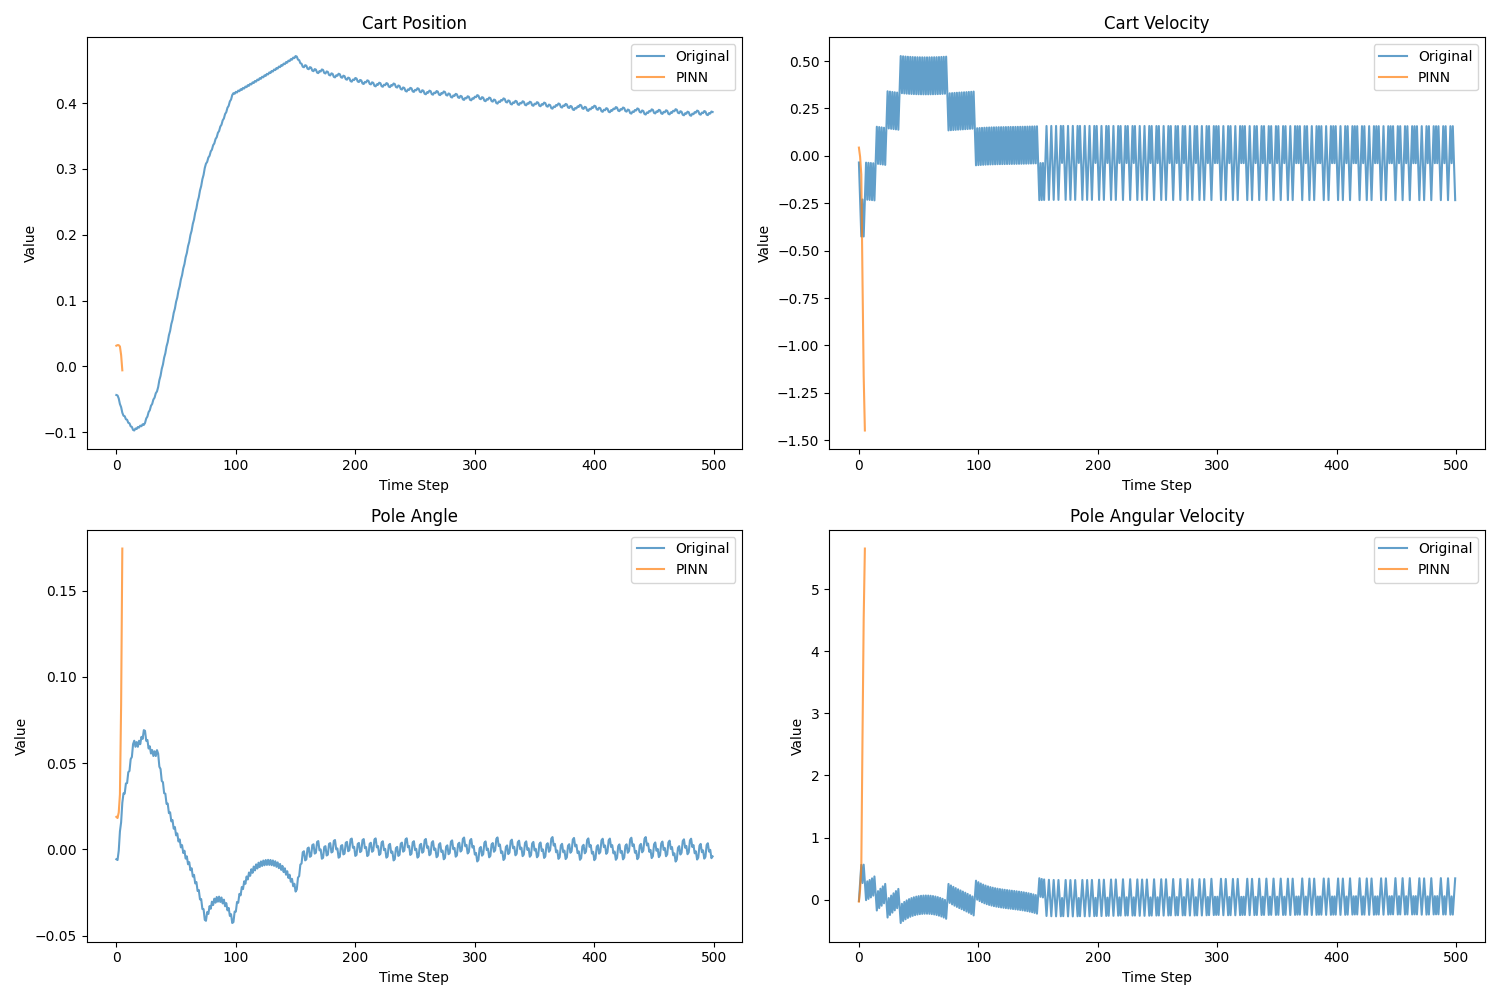
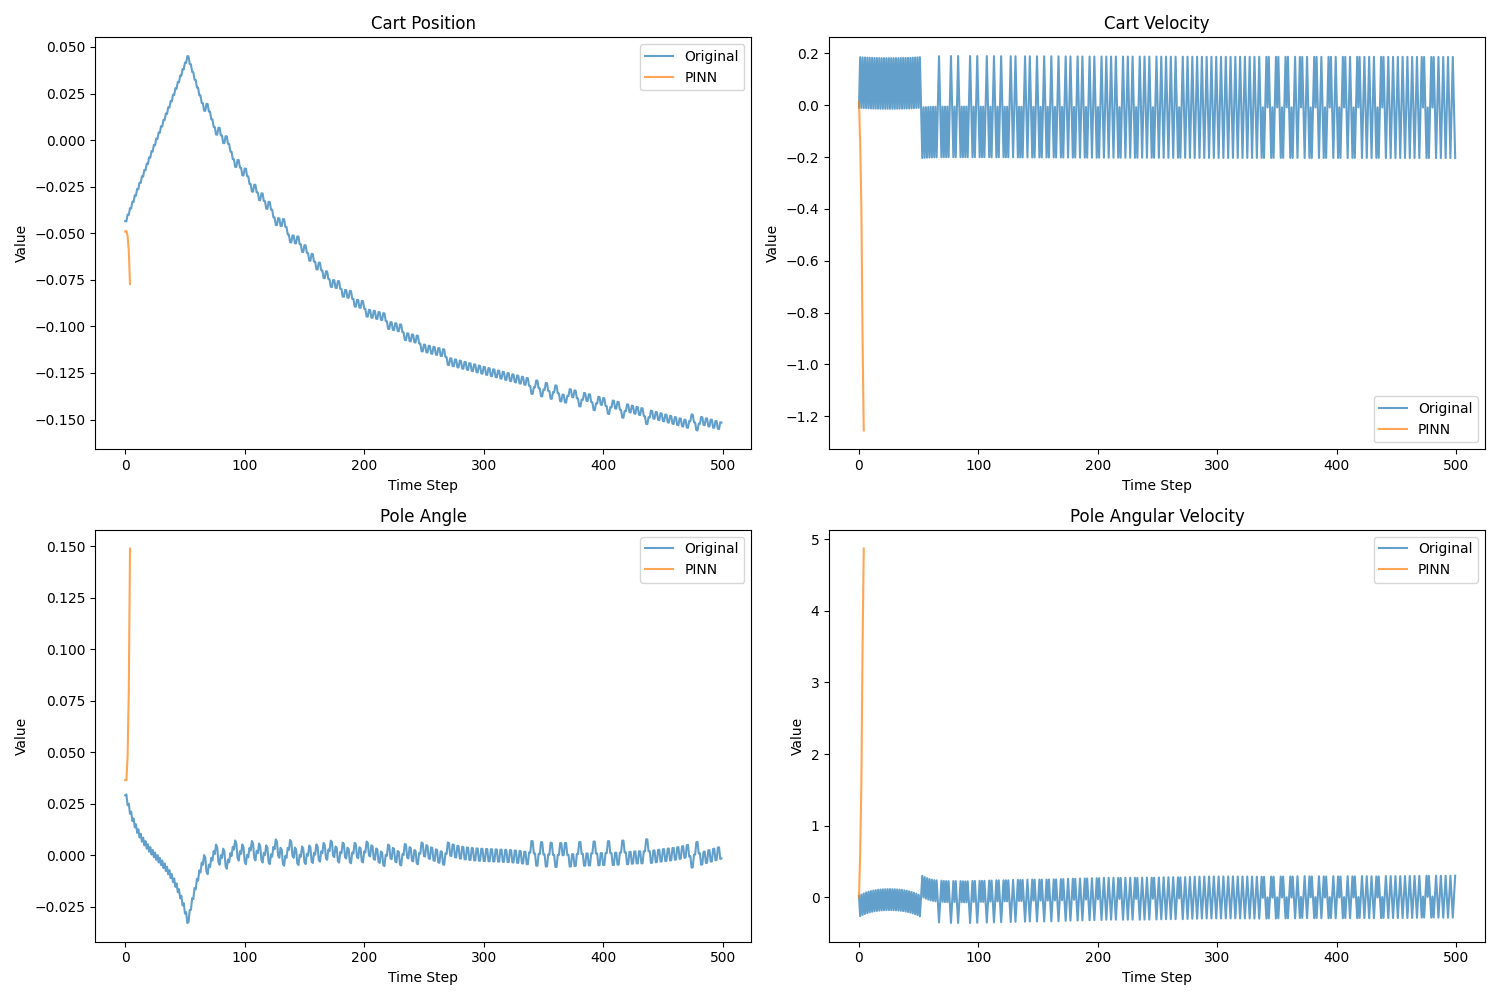
feat: add predicted forces to collect_trajectories

diff --git a/integration/compare_environments.py b/integration/compare_environments.py
@@ -38,7 +38,7 @@ def collect_trajectory(env, model, max_steps=500, visualize=False):
     tuple: Numpy arrays of states, actions, and rewards.
     """
     obs, _ = env.reset()
-    states, actions, rewards = [], [], []
+    states, actions, rewards, predicted_forces = [], [], [], []
 
     animation = create_animation(obs, max_steps, visualize)
 
@@ -46,15 +46,18 @@ def collect_trajectory(env, model, max_steps=500, visualize=False):
         action, _ = model.predict(obs, deterministic=True)
         states.append(obs)
         actions.append(action)
-        obs, reward, terminated, truncated, _ = env.step(action)
+        obs, reward, terminated, truncated, info = env.step(action)
         rewards.append(reward)
+
+        if "predicted_force" in info:
+            predicted_forces.append(info["predicted_force"])
 
         plot_trajectory(states, actions, rewards, visualize)
 
         if terminated or truncated:
             break
 
-    return np.array(states), np.array(actions), np.array(rewards)
+    return (np.array(states), np.array(actions), np.array(rewards), np.array(predicted_forces) if predicted_forces else None)
 
 def compare_environments(pinn_model, params, predict_friction=False, num_episodes=100, max_steps=500, visualize=False):
     """
@@ -94,8 +97,8 @@ def compare_environments(pinn_model, params, predict_friction=False, num_episode
     print(f"Mean reward: {pinn_mean:.2f} +/- {pinn_std:.2f}")
 
     # Collect trajectories
-    original_states, original_actions, original_rewards = collect_trajectory(original_env, ppo_model, max_steps, visualize)
-    pinn_states, pinn_actions, pinn_rewards = collect_trajectory(pinn_env, ppo_model, max_steps, visualize)
+    original_states, original_actions, original_rewards, _ = collect_trajectory(original_env, ppo_model, max_steps, visualize)
+    pinn_states, pinn_actions, pinn_rewards, pinn_forces = collect_trajectory(pinn_env, ppo_model, max_steps, visualize)
 
     # Plot state comparisons
     fig, axs = plt.subplots(2, 2, figsize=(15, 10))
@@ -123,6 +126,32 @@ def compare_environments(pinn_model, params, predict_friction=False, num_episode
     plt.grid(True, linestyle='--', alpha=0.7)
     plt.savefig('media/reward_comparison.png')
     plt.close()
+
+    force_mag = original_env.force_mag  # Die konstante Kraft, die in der Gym-Umgebung verwendet wird
+    # Compare predicted vs actual forces and actions, also include pole angle
+    if pinn_forces is not None:
+        plt.figure(figsize=(10, 5))
+        plt.plot(original_actions, label='Original Actions (Gym Forces)', alpha=0.7)
+        plt.plot(pinn_forces, label='Predicted Forces (PINN)', alpha=0.7)
+        plt.title('Force Comparison: Gym vs PINN Prediction')
+        plt.xlabel('Time Step')
+        plt.ylabel('Force')
+        plt.legend()
+        plt.grid(True, linestyle='--', alpha=0.7)
+        plt.savefig('media/force_comparison.png')
+        plt.close()
+
+        # Create a comparison table of actual actions, predicted actions, predicted forces, and pole angles
+        print(
+            f"{'Time Step':<10}{'Actual Action':<15}{'Predicted Action':<20}{'Predicted Force':<20}{'Pole Angle (rad)':<20}")
+        for t in range(len(original_actions)):
+            actual_action = original_actions[t]
+            predicted_action = pinn_actions[t] if pinn_actions is not None else "N/A"
+            predicted_force = pinn_forces[t] if pinn_forces is not None else "N/A"
+            pole_angle = pinn_states[t, 2]  # Assuming the 3rd value in state array is pole angle (theta)
+
+            print(f"{t:<10}{actual_action:<15}{predicted_action:<20}{predicted_force:<20.5f}{pole_angle:<20.5f}")
+
 
     # Close environments
     original_env.close()

diff --git a/main.py b/main.py
@@ -13,7 +13,7 @@ import gymnasium as gym
 
 def main():
     file_paths = ["data/cartpole_data.csv"]
-    sequence_length = 50  # Adjust this value as needed
+    sequence_length = 5  # Adjust this value as needed
 
     # Load and preprocess the data
     train_dataloader, test_dataloader, scaler = get_dataloaders(file_paths, batch_size=32, sequence_length=sequence_length, test_size=0.2)
@@ -27,7 +27,7 @@ def main():
         "mu_p": 0.01,
         "force_mag": 10.0
     }
-
+    """
     models = {}
     for predict_friction in [False]:
         print(f"{'With' if predict_friction else 'Without'} friction prediction:")
@@ -48,13 +48,13 @@ def main():
         # Save the trained model
         timestamp = datetime.datetime.now().strftime("%Y%m%d_%H%M%S")
         torch.save(trained_model.state_dict(), f'model_archive/trained_pinn_model_{"with" if predict_friction else "without"}_friction_{timestamp}.pth')
-        """
+        """"""
         # Uncomment this block to load a saved model and evaluate it directly. Make sure to comment out previous training block and hyperparameter optimization block. At evaluate_pinn use the loaded model instead of trained_model.
         # Load the already saved model
         saved_model_path = f'model_archive/trained_pinn_model_without_friction_20240919_092248.pth'
         loaded_model = CartpolePINN(sequence_length, predict_friction=predict_friction)
         loaded_model.load_state_dict(torch.load(saved_model_path))
-        """
+        """"""
         # visualize interactively: uncomment only this block and the block above to load the pinn model
         #original_env = Monitor(gym.make('CartPole-v1'))
         #pinn_env = Monitor(PINNCartPoleEnv(loaded_model, params))
@@ -72,7 +72,7 @@ def main():
         print(f"Avg Physics Loss: {avg_physics_loss:.4f}")
         print(f"Mean Relative Error: {mean_relative_error:.4f}")
         print("\n" + "="*50 + "\n")
-
+        """
 
     # Compare environments
     #rewards_orig, rewards_pinn_with_friction = compare_environments(models[True], params, True)

diff --git a/integration/gym_integration.py b/integration/gym_integration.py
@@ -94,7 +94,7 @@ class PINNCartPoleEnv(gym.Env):
             self.steps_beyond_done += 1
             reward = 0.0
 
-        return np.array(self.state, dtype=np.float32), reward, done, False, {}
+        return np.array(self.state, dtype=np.float32), reward, done, False, {"predicted_force": force}
 
     def reset(self, *, seed=None, options=None):
         super().reset(seed=seed)
